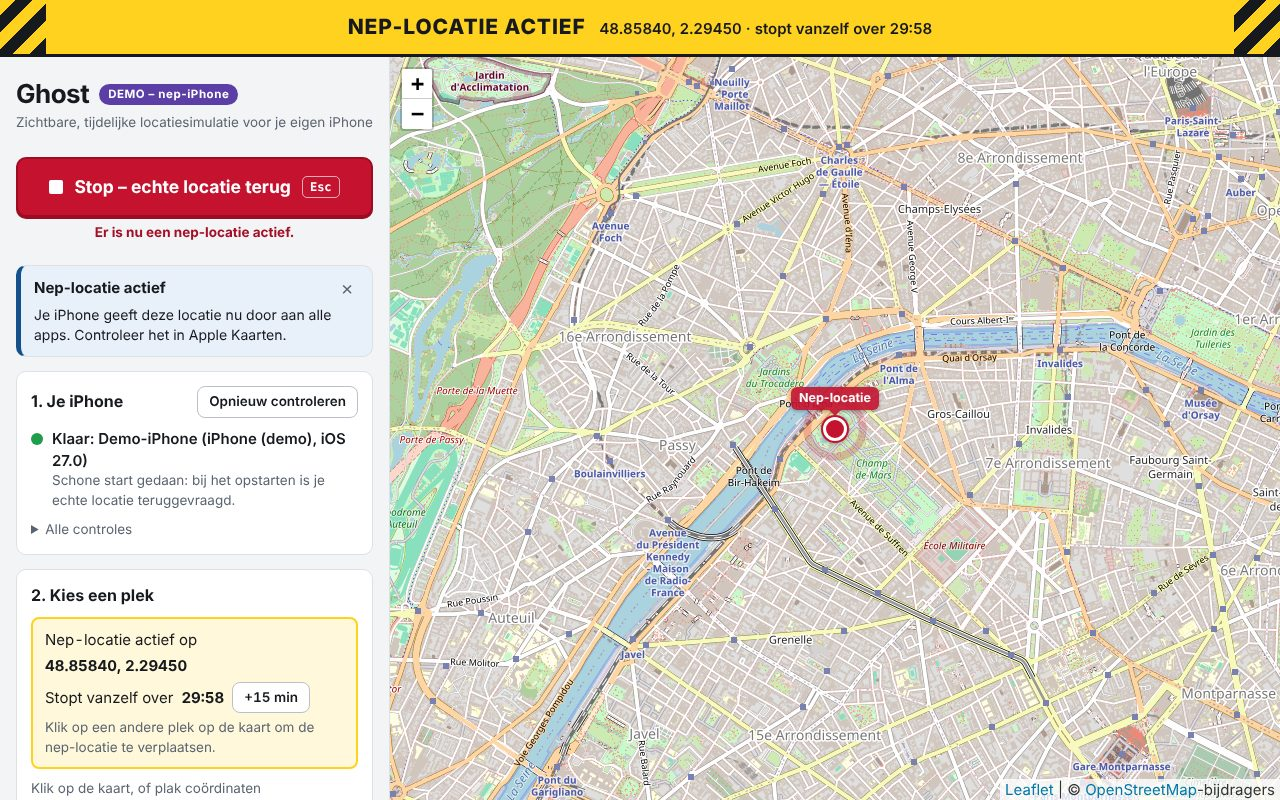
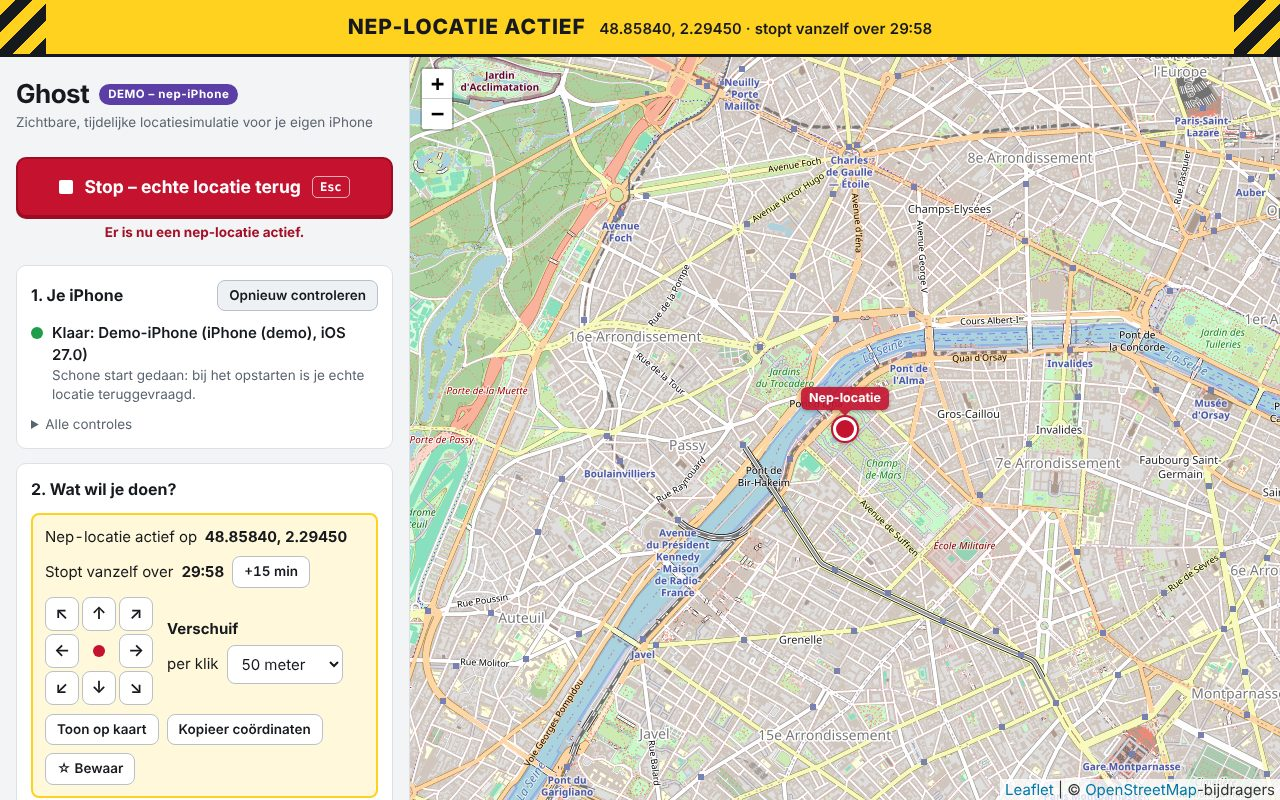
Document routes, favourites, address search and the pending login decision
- docs/STARTEN.md: how to use the fixed place, routes, favourites and
  address search, with a new screenshot.
- README: what leaves the computer and when.
- docs/VOORTGANG.md: choices made, the Nominatim policy as read today,
  the manual test list for routes on a real iPhone, and the state of
  the requested Supabase login (not built; needs a decision).

Claude-Session: https://claude.ai/code/session_01WzFdmqCLVoGUb5sV13aCyj

diff --git a/docs/VOORTGANG.md b/docs/VOORTGANG.md
@@ -53,6 +53,52 @@ vooraf te vragen; ze zijn allemaal makkelijk te veranderen (de plek staat erbij)
     iets actief is. Er staan geen coördinaten in. Staat het er nog bij het opstarten, dan meldt
     Ghost "vorige keer niet netjes afgesloten". Niet in demomodus.
 
+### Keuzes bij routes, favorieten en zoeken (13 nov 2026, tweede ronde)
+
+14. "Volg de weg" staat standaard AAN. De aangeklikte punten gaan dan naar
+    `routing.openstreetmap.de`. Dat staat bij het vinkje; uit = rechte lijn, niets naar internet.
+    Routes over de weg langer dan 500 km hemelsbreed vraagt Ghost niet aan de gratis server.
+15. Aan het eind van een route blijft de nep-locatie op het eindpunt staan (tot timer of stop).
+16. Een route beweegt met vaste snelheid, zonder nagemaakte "menselijke" ruis. Ghost verbergt de
+    simulatie niet (zie README); dat blijft zo.
+17. Verschuiven met de pijltjes kan alleen als de plek stilstaat, niet tijdens een route.
+    De timer loopt daarbij door.
+18. Favorieten worden bewaard op schijf (`favorieten.json`). Er is bewust GEEN lijst met
+    "recent gebruikt": dat zou ongevraagd bijhouden waar je was.
+19. Adres zoeken: standaard UIT (besluit 2). De schakelaar staat bij Instellingen, met de regels
+    en de link naar het beleid erbij. Zoeken gebeurt alleen op de knop of Enter.
+20. Ghost meldt zich bij de OSM-diensten als `Ghost-locatiesimulator/<versie>`, ZONDER de
+    repo-URL. De open vraag bij besluit 5 blijft dus open; het beleid eist alleen een herkenbare
+    naam.
+21. In demomodus blijven favorieten en instellingen in het geheugen; je echte bestanden worden
+    niet aangeraakt.
+
+### Inloggen met een account (Supabase): NOG NIET GEBOUWD, wacht op een besluit
+
+De gebruiker vroeg om inloggen met een account via Supabase, met tweestapsverificatie (2FA)
+en een bevestigde e-mail. Stand van zaken:
+
+- Er bestond nog geen Supabase-project voor Ghost. Het aanmaken ervan is in de cloud-sessie
+  tegengehouden door de beveiliging van die sessie. Er is dus niets aangemaakt en er is geen
+  inlogcode geschreven (ongetest inlogwerk is erger dan geen inlogwerk).
+- Gecontroleerd in de Supabase-documentatie:
+  - 2FA met een authenticator-app (TOTP) is gratis; de sms-variant kost geld.
+  - Na 2FA staat in het token `aal: "aal2"`; daarop kan Ghost controleren.
+  - De ingebouwde mailserver stuurt ALLEEN naar leden van de Supabase-organisatie
+    (fout `email_address_not_authorized` voor anderen) en maar een paar mails per uur. Vrienden
+    kunnen zich dus pas registreren nadat er een eigen mailserver (SMTP) is ingesteld.
+- Eerlijke kanttekeningen die de gebruiker moet wegen:
+  - Ghost draait op de eigen laptop. Een inlog houdt niemand tegen die achter die laptop zit en
+    de terminal-commando's of de code kan gebruiken. Het is een drempel, geen slot.
+  - Ghost wordt afhankelijk van internet en van Supabase. Gratis projecten worden na ongeveer
+    een week zonder gebruik gepauzeerd; dan kan niemand inloggen tot het project is hervat.
+  - E-mailadressen van gebruikers komen in een clouddatabase te staan.
+  - De rode knop mag NOOIT van inloggen afhangen.
+- Ontwerp als het doorgaat: Ghost praat zelf met Supabase (de pagina niet, zodat de strenge
+  browserregels blijven gelden); wachtwoord + bevestigde e-mail + verplichte TOTP; pas bij
+  `aal2` mag er een locatie gezet worden; stoppen, status en afsluiten werken altijd zonder
+  inloggen; alleen de publieke sleutel staat in de repo.
+
 ## Gecontroleerde technische feiten (pymobiledevice3 11.53.0, 12 nov 2026)
 
 - Vastgepind op 11.53.0 (nieuwer dan de 11.52.1 uit de prompt).
@@ -82,12 +128,21 @@ vooraf te vragen; ze zijn allemaal makkelijk te veranderen (de plek staat erbij)
   Een test bewaakt dat de functie in uvicorn nog bestaat.
 - Python op Windows haalt bestandstypen uit het register; daar staat soms ".js = platte tekst",
   en dan weigert de browser het script. `ghost/web/app.py` legt de typen daarom zelf vast.
+- Nominatim-beleid (gelezen 13 nov 2026), strenger dan eerder genoteerd. Hoofdpunten: hooguit
+  1 verzoek per seconde; een herkenbare User-Agent of Referer; bron vermelden; NIET automatisch
+  aanvullen; geen reeksen zoekopdrachten; resultaten bewaren. Over taalmodellen staat er dat door
+  een LLM gemaakte code aan alle regels moet voldoen, en dat gebruik alleen mag als de
+  ontwikkelaar van de app daar bewust en geïnformeerd voor kiest en zelf verantwoordelijk is.
+  Daarom: standaard uit, uitleg en link bij de schakelaar (`ghost/osm.py`, Instellingen).
+- Routeserver opnieuw getest: antwoord `code: "Ok"` met `routes[0].geometry.coordinates` als
+  `[lengtegraad, breedtegraad]`. Fouten komen soms als HTTP 200 met een andere `code`
+  (bv. bij 0,0), soms als HTTP 400 met `code: "NoRoute"`. `ghost/osm.py` vangt beide af.
 - Venster sluiten op Windows: Microsoft documenteert 5 seconden voor `CTRL_CLOSE_EVENT`.
   NIET gevonden: in welke volgorde meerdere programma's in hetzelfde venster worden gewaarschuwd.
   Dat is van belang omdat `start.bat` Ghost start via `uv` (en mogelijk een tussenprogramma van
   de virtuele omgeving). Zie de handmatige test hieronder.
 
-## Wat er gebouwd is (stappen 1 t/m 6, en start.bat)
+## Wat er gebouwd is (stappen 1 t/m 7, 9, start.bat en adres zoeken)
 
 - `ghost/device/` - interface, echte iPhone (`iphone.py`), nep-iPhone (`fake.py`)
 - `ghost/cli.py` - commando's `status`, `pair`, `reveal-developer-mode`, `mount`,
@@ -98,15 +153,24 @@ vooraf te vragen; ze zijn allemaal makkelijk te veranderen (de plek staat erbij)
 - Stap 5: `ghost/web/security.py` (Host, Origin, sessietoken, geen CORS),
   `ghost/web/app.py` (FastAPI), `ghost/web/server.py` (alleen 127.0.0.1; afsluitvolgorde in
   één `finally`), `ghost/controller.py` (timer, bewaking van de verbinding, statuspaneel).
-  De MovementEngine voor routes is er nog NIET; die komt bij stap 7.
+- Stap 7 (routes): `Controller.plan_route/start_route/pause_route/...` en
+  `Controller._advance_route` (de "MovementEngine": elke seconde het volgende punt),
+  `ghost/osm.py` (routeserver en zoekdienst, elk hooguit 1 verzoek per seconde),
+  `ghost/net.py` (de enige plek waar Ghost iets van internet ophaalt).
+- Stap 9 (favorieten): `ghost/store.py`, bestand `favorieten.json`.
+- Verschuiven met pijltjes: `Controller.nudge` en `geo.destination_point`.
+- Adres zoeken (Nominatim), standaard uit: `SearchClient` in `ghost/osm.py`,
+  instelling in `instellingen.json`.
 - Stap 6: `ghost/web/static/` (kaart met Leaflet + OpenStreetMap, statuspaneel met knoppen,
   balk "NEP-LOCATIE ACTIEF", rode stopknop + Esc, auto-stop-timer).
 - `start.bat` en `start-demo.bat` (dubbelklikken; de browser gaat vanzelf open).
-- 248 tests, allemaal groen op Linux (cloud). De 113 oude waren ook groen op de
-  Windows-laptop; de nieuwe zijn daar nog niet gedraaid.
+- 379 tests, allemaal groen op Linux (cloud). De 113 oudste waren ook groen op de
+  Windows-laptop; de rest is daar nog niet gedraaid.
 - De pagina is in een echte browser (Chromium) getest tegen de nep-iPhone: plek kiezen,
   coördinaten plakken, zetten, +15 min, Esc, statuspaneel met problemen, kabel eruit en erin,
-  afsluiten, "geen contact". Geen meldingen over de strenge browserregels (CSP).
+  afsluiten, "geen contact"; en in de tweede ronde: verschuiven, kopiëren, favorieten, een
+  route als rechte lijn en over de weg (echte routeserver), pauze, snelheid onderweg, herladen
+  tijdens een route, en één echte zoekopdracht. Geen meldingen over de strenge browserregels (CSP).
 
 ## Handmatige testresultaten (13 nov 2026, iOS 27, Windows)
 
@@ -132,7 +196,7 @@ vooraf te vragen; ze zijn allemaal makkelijk te veranderen (de plek staat erbij)
 
 Niets hiervan kon in de cloud getest worden: daar is geen Windows en geen iPhone.
 
-- [ ] `uv run pytest` op de Windows-laptop: 248 tests groen?
+- [ ] `uv run pytest` op de Windows-laptop: 379 tests groen?
 - [ ] `start.bat` dubbelklikken: zwart venster, browser opent `http://127.0.0.1:8765`.
 - [ ] Statuspaneel wordt groen ("Klaar: ...") met de echte iPhone, en meldt "Schone start gedaan".
 - [ ] Plek zetten via de kaart: stip in Apple Kaarten verspringt, gele balk verschijnt.
@@ -149,16 +213,20 @@ Niets hiervan kon in de cloud getest worden: daar is geen Windows en geen iPhone
       wordt de echte locatie vanzelf teruggevraagd? (Dit beantwoordt meteen de open vraag
       hierboven: blijft de nep-locatie staan na het uittrekken van de kabel?)
 - [ ] Laptop dichtklappen terwijl er iets actief is, later weer open: wat doet Ghost?
+- [ ] Route (lopen, een paar honderd meter): beweegt de stip in Apple Kaarten vloeiend mee?
+      Elke seconde gaat er een punt naar de iPhone; dat is op een echt toestel nog nooit gedaan.
+      Let op of Ghost na een paar minuten nog steeds reageert en of de rode knop meteen werkt.
+- [ ] Pauze en snelheid veranderen tijdens een route.
+- [ ] Verschuiven met de pijltjes: verspringt de stip in Apple Kaarten?
 
 ## Volgende stappen
 
 1. Eerst: de testlijst hierboven afwerken en de uitslagen hier noteren. Vooral "venster
-   sluiten" en "kabel eruit".
-2. Stap 7: routes. MovementEngine (stuurt elke seconde het volgende punt; `ghost/geo.py`
-   heeft de wiskunde al), de routeserver van OSM (zie feiten hierboven) en route-bediening
-   in de pagina. De timer en de bewaking in `Controller` blijven gelden.
+   sluiten", "kabel eruit" en "route op een echte iPhone".
+2. Besluit van de gebruiker over inloggen met Supabase (zie hierboven). Bij "ja": project
+   aanmaken, inloggen bouwen en tegen het echte project testen.
 3. Stap 8: de hartslag met twee standen ("ik zit erbij" en "op de achtergrond").
    Nu geldt alleen "op de achtergrond": tabblad sluiten stopt niets, de timer is het vangnet.
-4. Stap 9: favorieten in `%LOCALAPPDATA%\Ghost\`.
-5. Stap 10: herstelhulp, adres zoeken (Nominatim, standaard UIT), SECURITY.md,
-   `update.bat`.
+4. Stap 10: herstelhulp, SECURITY.md, `update.bat`.
+5. Ideeën voor later: een route uit een GPX-bestand, favorieten een naam laten wijzigen,
+   een route bewaren als favoriet.

diff --git a/docs/STARTEN.md b/docs/STARTEN.md
@@ -55,6 +55,10 @@ Sluit je iPhone aan met de kabel en ontgrendel hem. Kijk in de pagina bij **1. J
 
 ## Stap 4: een nep-locatie zetten
 
+Bij **2. Wat wil je doen?** kies je een van de twee tabbladen.
+
+### Vaste plek: je iPhone staat op één plek
+
 1. Klik op de kaart op de plek die je wilt. Of plak coördinaten in het tekstvak
    (bijvoorbeeld `48.8584, 2.2945`) en klik op **Toon op kaart**.
 2. Kies bij **Stop vanzelf na** hoe lang het mag duren (standaard 30 minuten).
@@ -64,7 +68,51 @@ Wat je hoort te zien: bovenaan een gele balk **NEP-LOCATIE ACTIEF** met de coör
 aftellende timer, en een rode stip "Nep-locatie" op de kaart. Controleer het in Apple Kaarten op
 je iPhone.
 
-Een andere plek? Klik op de kaart en dan op **Verplaats nep-locatie hierheen**.
+In het gele blok in de zijbalk kun je daarna:
+
+- met de **pijltjes** de nep-locatie een stukje verschuiven (10, 50, 100 of 500 meter per klik);
+- de timer verlengen met **+15 min**;
+- de plek bewaren als favoriet met **☆ Bewaar**, of de coördinaten kopiëren.
+
+Een heel andere plek? Klik op de kaart en dan op **Verplaats nep-locatie hierheen**.
+
+### Route: je nep-locatie beweegt
+
+![Een route die loopt](img/ghost-route.jpg)
+
+1. Klik op het tabblad **Route**.
+2. Klik op de kaart voor het beginpunt, en daarna voor elk volgend punt (hooguit 25).
+   Een punt verkeerd gezet? Sleep het naar de goede plek, of klik op het kruisje in de lijst.
+3. Kies **Lopen**, **Fietsen** of **Auto**. De snelheid past zich aan (5, 15 of 40 km/u);
+   met de schuif kies je zelf iets tussen 1 en 120 km/u.
+4. Kies eventueel **Heen en terug** of **Blijf herhalen**.
+5. Kijk naar de samenvatting (afstand en tijd) en kies een timer die lang genoeg is.
+6. Klik op **Start route**.
+
+Wat je hoort te zien: de rode stip beweegt over de rode lijn, en in het gele blok loopt een
+voortgangsbalk. Daar zitten ook **Pauze** en de schuif om onderweg de snelheid te veranderen.
+Aan het eind blijft de nep-locatie op het eindpunt staan tot de timer afloopt of je stopt.
+
+**Volg de weg** staat standaard aan. Ghost vraagt de route dan op bij `routing.openstreetmap.de`,
+een gratis dienst van de vereniging FOSSGIS. De punten die je aanklikt gaan daarvoor naar die
+dienst. Wil je dat niet, zet het vinkje dan uit: Ghost rekent dan zelf een rechte lijn uit en er
+gaat niets naar internet (behalve de kaartplaatjes).
+
+### Favorieten
+
+Onder **Favorieten** staan de plekken die je hebt bewaard. Klik op een favoriet om hem te kiezen;
+op het tabblad Route wordt het dan een volgend punt van je route. Favorieten staan alleen op je
+eigen laptop, in `%LOCALAPPDATA%\Ghost\favorieten.json`.
+
+### Adres zoeken (staat standaard uit)
+
+Wil je op adres of plaatsnaam zoeken? Open onderaan **Instellingen** en zet **Adres zoeken
+aanzetten** aan. Lees eerst wat erbij staat: je zoektekst gaat dan naar
+`nominatim.openstreetmap.org`, een gratis dienst met regels
+([gebruiksbeleid](https://operations.osmfoundation.org/policies/nominatim/)). Ghost zoekt alleen
+als je zelf op **Zoek** klikt, hooguit één keer per seconde, en onthoudt wat je al gezocht hebt.
+Zonder deze instelling kun je altijd coördinaten plakken, bijvoorbeeld uit Google Maps
+(rechtsklik op een plek > klik op de coördinaten om ze te kopiëren).
 
 ## Stap 5: stoppen
 
@@ -88,7 +136,8 @@ op te ruimen. Daarom ruimt Ghost zelf op, op al deze momenten:
 | --- | --- |
 | Ghost start | Vraagt eerst je echte locatie terug (schone start). |
 | Rode knop of Esc | Vraagt je echte locatie terug. |
-| De timer loopt af | Vraagt je echte locatie terug. |
+| De timer loopt af | Vraagt je echte locatie terug. Dat geldt ook midden in een route. |
+| Een punt van een route komt niet aan | Stopt de route en vraagt je echte locatie terug. |
 | Knop "Ghost afsluiten" | Vraagt je echte locatie terug en stopt dan. |
 | Ctrl+C in het zwarte venster | Vraagt je echte locatie terug en stopt dan. |
 | Je sluit het zwarte venster met het kruisje | Vraagt je echte locatie terug in de paar seconden die Windows geeft. |
@@ -113,6 +162,9 @@ In die gevallen: sluit je iPhone aan en start Ghost opnieuw. De schone start zet
 | "Poort 8765 is al in gebruik door een ander programma" | Open PowerShell in de map van Ghost en plak: `uv run python -m ghost web --port 8766` |
 | De pagina zegt "Geen contact met Ghost" | Het zwarte venster is gesloten. Dubbelklik opnieuw op `start.bat`. |
 | De kaart blijft grijs | Je hebt geen internet, of de kaartserver van OpenStreetMap is even niet bereikbaar. Coördinaten plakken werkt wel. |
+| "De routeserver is niet bereikbaar" | Je hebt geen internet, of de gratis routeserver is druk. Zet **Volg de weg** uit voor een rechte lijn, of probeer het later. |
+| "Tussen deze punten is geen route over de weg gevonden" | Een punt ligt bijvoorbeeld op zee. Verplaats het punt, of zet **Volg de weg** uit. |
+| "De zoekdienst weigert op dit moment verzoeken" | De gratis zoekdienst is druk of blokkeert tijdelijk. Wacht een paar minuten, of plak coördinaten. |
 | Na Ctrl+C vraagt het venster "Batchtaak beëindigen (J/N)?" | Dat is Windows, niet Ghost. Beide antwoorden zijn goed. |
 
 Technische details van fouten staan in het logbestand. Het pad staat onderaan de pagina

diff --git a/README.md b/README.md
@@ -4,7 +4,7 @@
 
 Ghost is a Windows app that replaces the GPS location of your own iPhone (connected by USB cable) with a simulated one. It uses Apple's own location simulation from Developer Mode, through the open-source library [pymobiledevice3](https://github.com/doronz88/pymobiledevice3). No jailbreak, no changes to iOS.
 
-> **Status: work in progress.** A fixed location works from a page in your browser, with a stop button and an auto-stop timer. Routes, favourites, the heartbeat and the recovery guide are still being built.
+> **Status: work in progress.** From a page in your browser you can set a fixed location or let the location move along a route (walking, cycling or driving speed), nudge it with arrow buttons, save favourites and optionally search by address. There is always a stop button and an auto-stop timer. The heartbeat ("stop when I close the tab") and the recovery guide are still being built.
 
 ![Ghost with a simulated location active](docs/img/ghost-actief.jpg)
 
@@ -18,7 +18,17 @@ Safe for **you**, the user:
 - the web page only listens on your own computer (`127.0.0.1`) and refuses requests from other websites;
 - your saved places and logs stay on your own computer.
 
-"Safe" does **not** mean invisible. Ghost does nothing to hide the simulation from apps or anti-cheat systems, and it never will.
+"Safe" does **not** mean invisible. Ghost does nothing to hide the simulation from apps or anti-cheat systems, and it never will. That is also why routes move at a constant speed without artificial "human" noise.
+
+## What leaves your computer
+
+Ghost itself runs entirely on your computer. Only these requests go to the internet, and only when you trigger them:
+
+| What | Where to | When |
+| --- | --- | --- |
+| Map images | `tile.openstreetmap.org` | While you look at the map. |
+| A route along roads | `routing.openstreetmap.de` (FOSSGIS) | When you plan a route with "Volg de weg" on. The points you clicked are sent. Turn it off for a straight line. |
+| An address search | `nominatim.openstreetmap.org` | Only after you switch on address search in the settings, and only when you click "Zoek". Off by default; see the [usage policy](https://operations.osmfoundation.org/policies/nominatim/). |
 
 ## Disclaimer
 
@@ -53,7 +63,10 @@ How the pieces fit together:
 | `ghost/device/` | Talks to the iPhone (`iphone.py`) or a fake one (`fake.py`). |
 | `ghost/safety.py` | The safety manager: every location change goes through it, and it always clears on exit. |
 | `ghost/exit_hooks.py` | Catches Ctrl+C and the console window being closed. |
-| `ghost/controller.py` | Auto-stop timer, connection watchdog and the state shown on the page. |
+| `ghost/controller.py` | Auto-stop timer, connection watchdog, routes and the state shown on the page. |
+| `ghost/geo.py` | Pure route maths: distances, positions along a route. |
+| `ghost/osm.py`, `ghost/net.py` | The two OpenStreetMap services (routing, address search), throttled to one request per second. |
+| `ghost/store.py` | Favourites and settings, as JSON files in `%LOCALAPPDATA%\Ghost`. |
 | `ghost/web/security.py` | Host check, Origin check and session token. No CORS. |
 | `ghost/web/app.py` | The API the page talks to. |
 | `ghost/web/server.py` | Start-up and shutdown order. |
